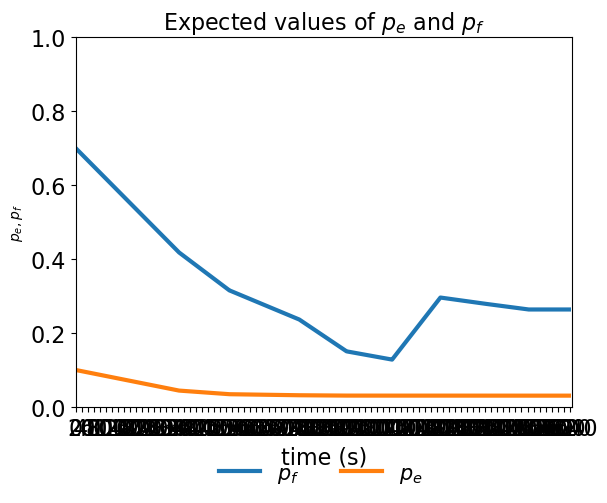
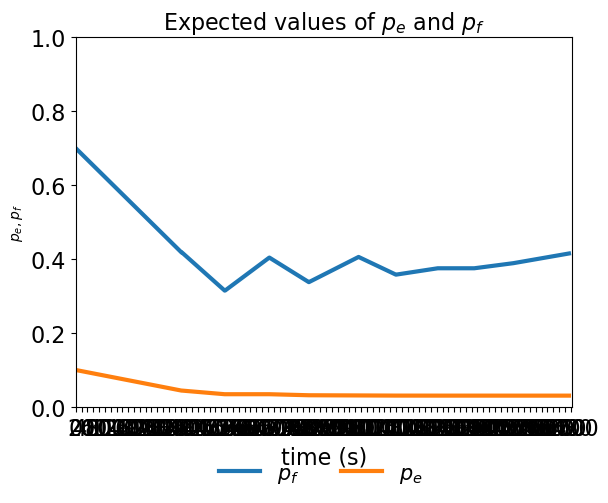
dta

diff --git a/robot.py b/robot.py
@@ -270,12 +270,15 @@ class Fetch(threading.Thread):
                             if ts in self.cur_allocated_tasks:
                                 haction = 1
                                 self.cur_allocated_tasks.remove(ts)
-                            elif ts in tasks_allocated_to_robot or wrong_assign:
+                            elif (ts in tasks_allocated_to_robot) or (ts in wrong_assign):
                                 haction = -1  # Todo: this reduces p_conform significantly
                                 try:
                                     tasks_allocated_to_robot.remove(ts)
                                 except:
-                                    wrong_assign.remove(ts)
+                                    try:
+                                        wrong_assign.remove(ts)
+                                    except:
+                                        pass
                             else:
                                 haction = 0
 

diff --git a/main.py b/main.py
@@ -8,7 +8,7 @@ import measure
 
 
 human_speed = 1
-pattern_number = 3
+pattern_number = 4
 
 
 # pattern = [
@@ -81,7 +81,7 @@ team_server.start()
 
 
 
-measure = measure.Measure(directory='14416', case_name='task4.pickle')
+measure = measure.Measure(directory='12133', case_name='task4.pickle')
 print('phase1')
 human = human_v2.Human(task=task, team_server=team_server, measure=measure)
 # human.daemon = True
